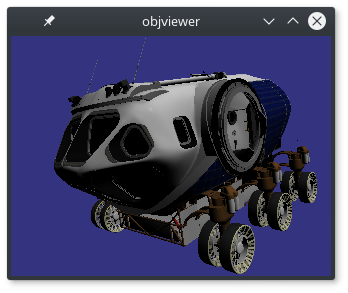
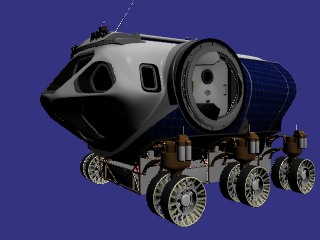
Enable antialiasing via multisampling

diff --git a/objviewer.c b/objviewer.c
@@ -110,12 +110,13 @@ int main(int argc, char **argv)
 
   GC_INIT();
   glutInit(&argc, argv);
-  glutInitDisplayMode(GLUT_DOUBLE | GLUT_RGB | GLUT_DEPTH);
+  glutInitDisplayMode(GLUT_DOUBLE | GLUT_RGB | GLUT_DEPTH | GLUT_MULTISAMPLE);
   glutInitWindowSize(width, height);
   glutCreateWindow("objviewer");
   glewExperimental = GL_TRUE;
   glewInit();
   glEnable(GL_DEPTH_TEST);
+  glEnable(GL_MULTISAMPLE_ARB);
 
   program = make_program("vertex.glsl", "fragment.glsl");
   lists = make_list();
